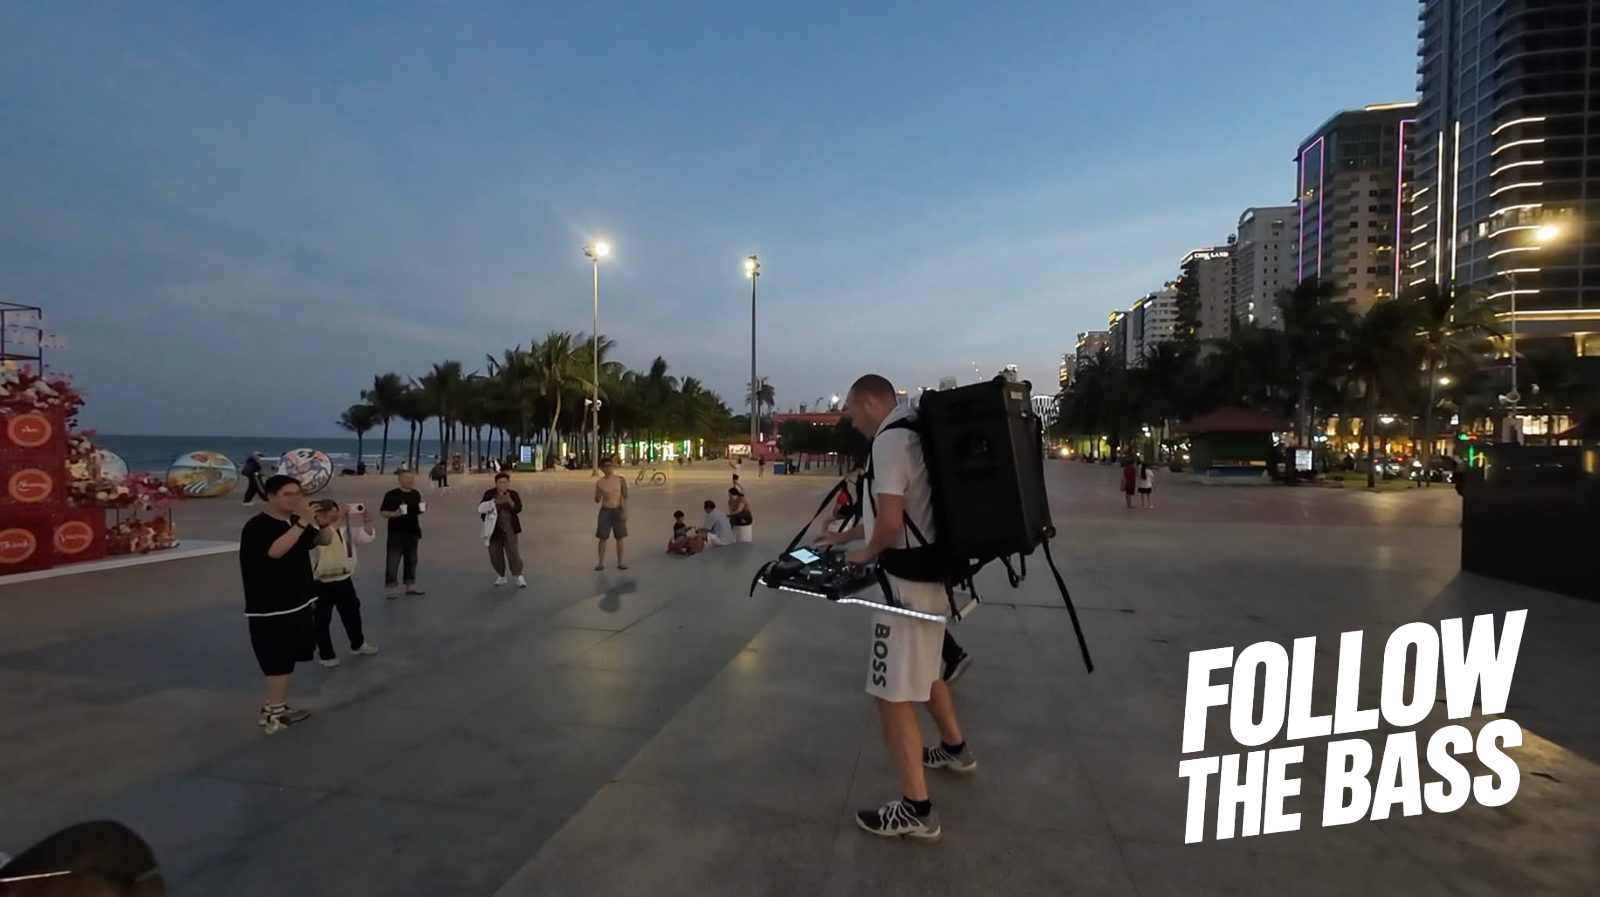
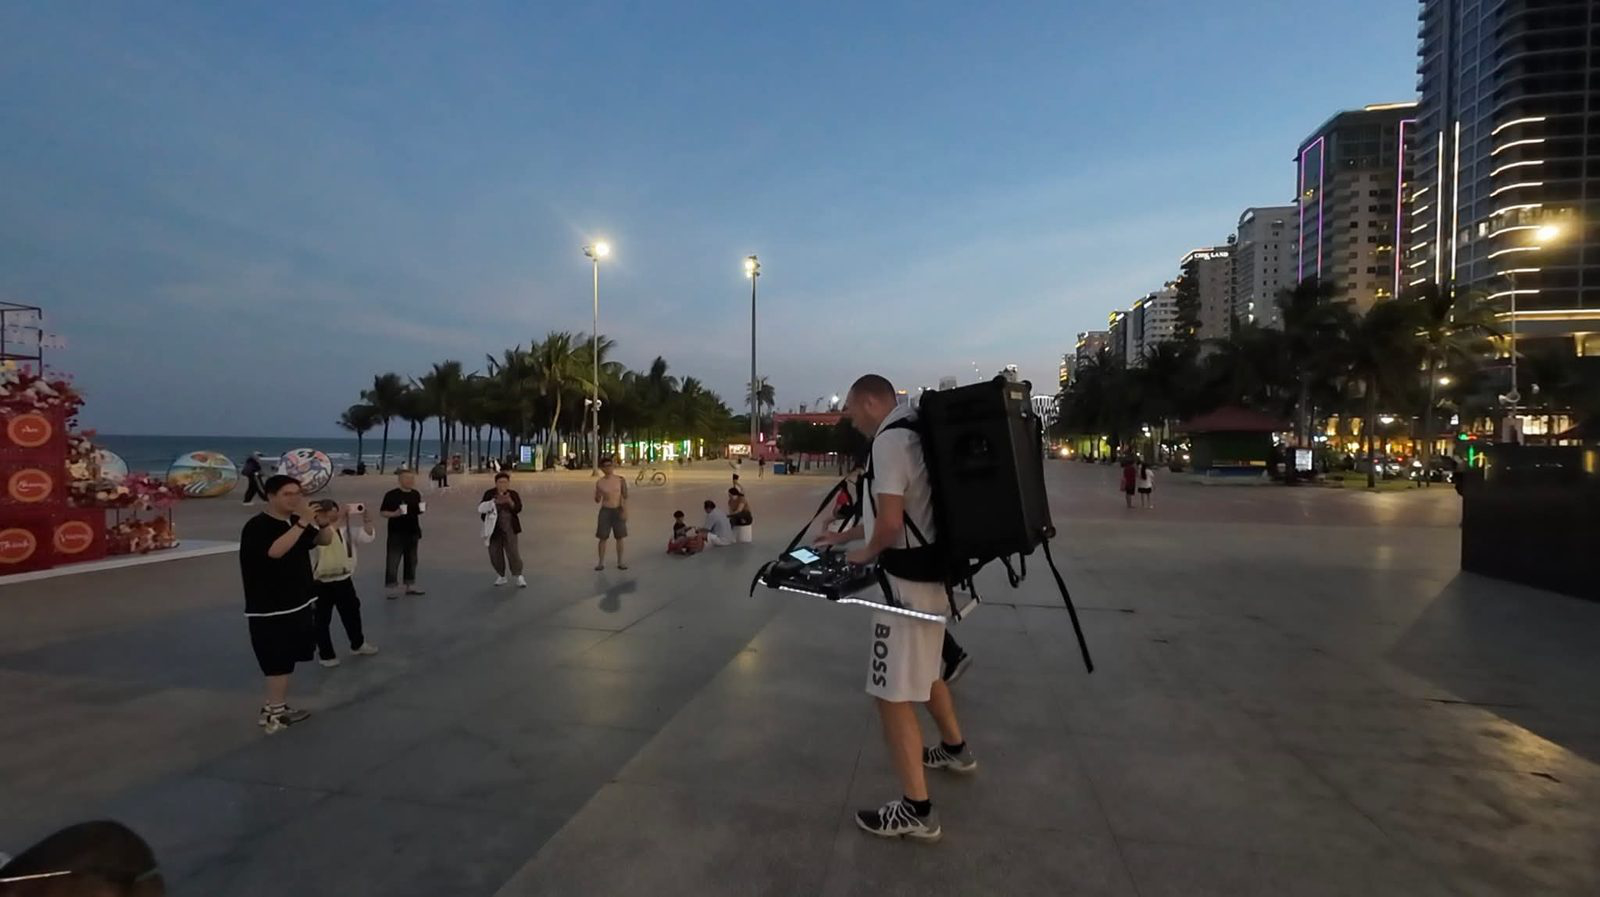
add images

Changed region(s): [[0.7188, 0.6867, 0.9688, 0.9365]]

diff --git a/app/frontend/pages/news/show.svelte b/app/frontend/pages/news/show.svelte
@@ -6,7 +6,8 @@
   let { locale, slug, news, news_url, meta } = $props();
 
   const Content = $derived(newsComponent(locale, slug));
-  const imageUrl = $derived(absoluteUrl(newsImage(slug, locale), meta.origin));
+  const preview = $derived(newsImage(slug, locale));
+  const imageUrl = $derived(absoluteUrl(preview, meta.origin));
 </script>
 
 <svelte:head>
@@ -16,31 +17,61 @@
   {/if}
 </svelte:head>
 
-<nav class="mb-10">
-  <Link href={news_url} class="text-sm text-neutral-400 hover:text-white">
-    ← News
-  </Link>
-</nav>
-
-{#if Content}
-  <article class="news">
-    <header class="news-header">
-      <time
-        datetime={news.published_at}
-        class="text-[11px] tracking-[0.25em] text-neutral-500 uppercase"
-      >
-        {formatNewsDate(news.published_at, locale)}
-      </time>
-      <h1>{news.title}</h1>
-      <EntityTags tags={news.tags} {locale} />
-    </header>
-    <div class="news-content">
-      <Content />
+<div class="news-page">
+  {#if preview}
+    <div class="news-backdrop" aria-hidden="true">
+      <img src={preview} alt="" />
     </div>
-  </article>
-{/if}
+  {/if}
+
+  <nav class="mb-10">
+    <Link href={news_url} class="text-sm text-neutral-400 hover:text-white">
+      ← News
+    </Link>
+  </nav>
+
+  {#if Content}
+    <article class="news">
+      <header class="news-header">
+        <time
+          datetime={news.published_at}
+          class="text-[11px] tracking-[0.25em] text-neutral-500 uppercase"
+        >
+          {formatNewsDate(news.published_at, locale)}
+        </time>
+        <h1>{news.title}</h1>
+        <EntityTags tags={news.tags} {locale} />
+      </header>
+      <div class="news-content">
+        <Content />
+      </div>
+    </article>
+  {/if}
+</div>
 
 <style>
+  .news-page {
+    position: relative;
+    isolation: isolate;
+  }
+
+  .news-backdrop {
+    position: fixed;
+    inset: -4rem;
+    z-index: -1;
+    overflow: hidden;
+    pointer-events: none;
+  }
+
+  .news-backdrop img {
+    width: 100%;
+    height: 100%;
+    object-fit: cover;
+    filter: blur(14px) brightness(0.2);
+    transform: scale(1);
+  }
+
+
   .news-header {
     margin-bottom: 1.5rem;
   }

diff --git a/app/frontend/pages/news/index.svelte b/app/frontend/pages/news/index.svelte
@@ -1,7 +1,7 @@
 <script>
   import { Link } from "inertiax-svelte";
   import logo from "~/assets/logo.png";
-  import { absoluteUrl, formatNewsDate } from "~/news.js";
+  import { absoluteUrl, formatNewsDate, newsImage } from "~/news.js";
 
   let { news, locale = "en", meta } = $props();
 
@@ -20,18 +20,31 @@
 {#if news.length}
   <ul class="space-y-8">
     {#each news as item (item.slug)}
+      {@const preview = newsImage(item.slug, locale)}
       <li>
-        <Link href={item.url} class="group block">
-          <time
-            datetime={item.published_at}
-            class="text-[11px] tracking-[0.25em] text-neutral-500 uppercase"
-          >
-            {formatNewsDate(item.published_at, locale)}
-          </time>
-          <h2 class="mt-2 text-lg font-semibold group-hover:underline">{item.title}</h2>
-          {#if item.description}
-            <p class="mt-2 text-sm leading-relaxed text-neutral-400">{item.description}</p>
+        <Link
+          href={item.url}
+          class="group flex flex-col gap-4 sm:flex-row sm:items-start"
+        >
+          {#if preview}
+            <div
+              class="aspect-video w-full shrink-0 overflow-hidden rounded border border-white/10 bg-white/5 transition-colors group-hover:border-white/25 sm:w-48"
+            >
+              <img src={preview} alt="" loading="lazy" class="h-full w-full object-contain" />
+            </div>
           {/if}
+          <div class="min-w-0 flex-1">
+            <time
+              datetime={item.published_at}
+              class="text-[11px] tracking-[0.25em] text-neutral-500 uppercase"
+            >
+              {formatNewsDate(item.published_at, locale)}
+            </time>
+            <h2 class="mt-2 text-lg font-semibold group-hover:underline">{item.title}</h2>
+            {#if item.description}
+              <p class="mt-2 text-sm leading-relaxed text-neutral-400">{item.description}</p>
+            {/if}
+          </div>
         </Link>
       </li>
     {/each}
